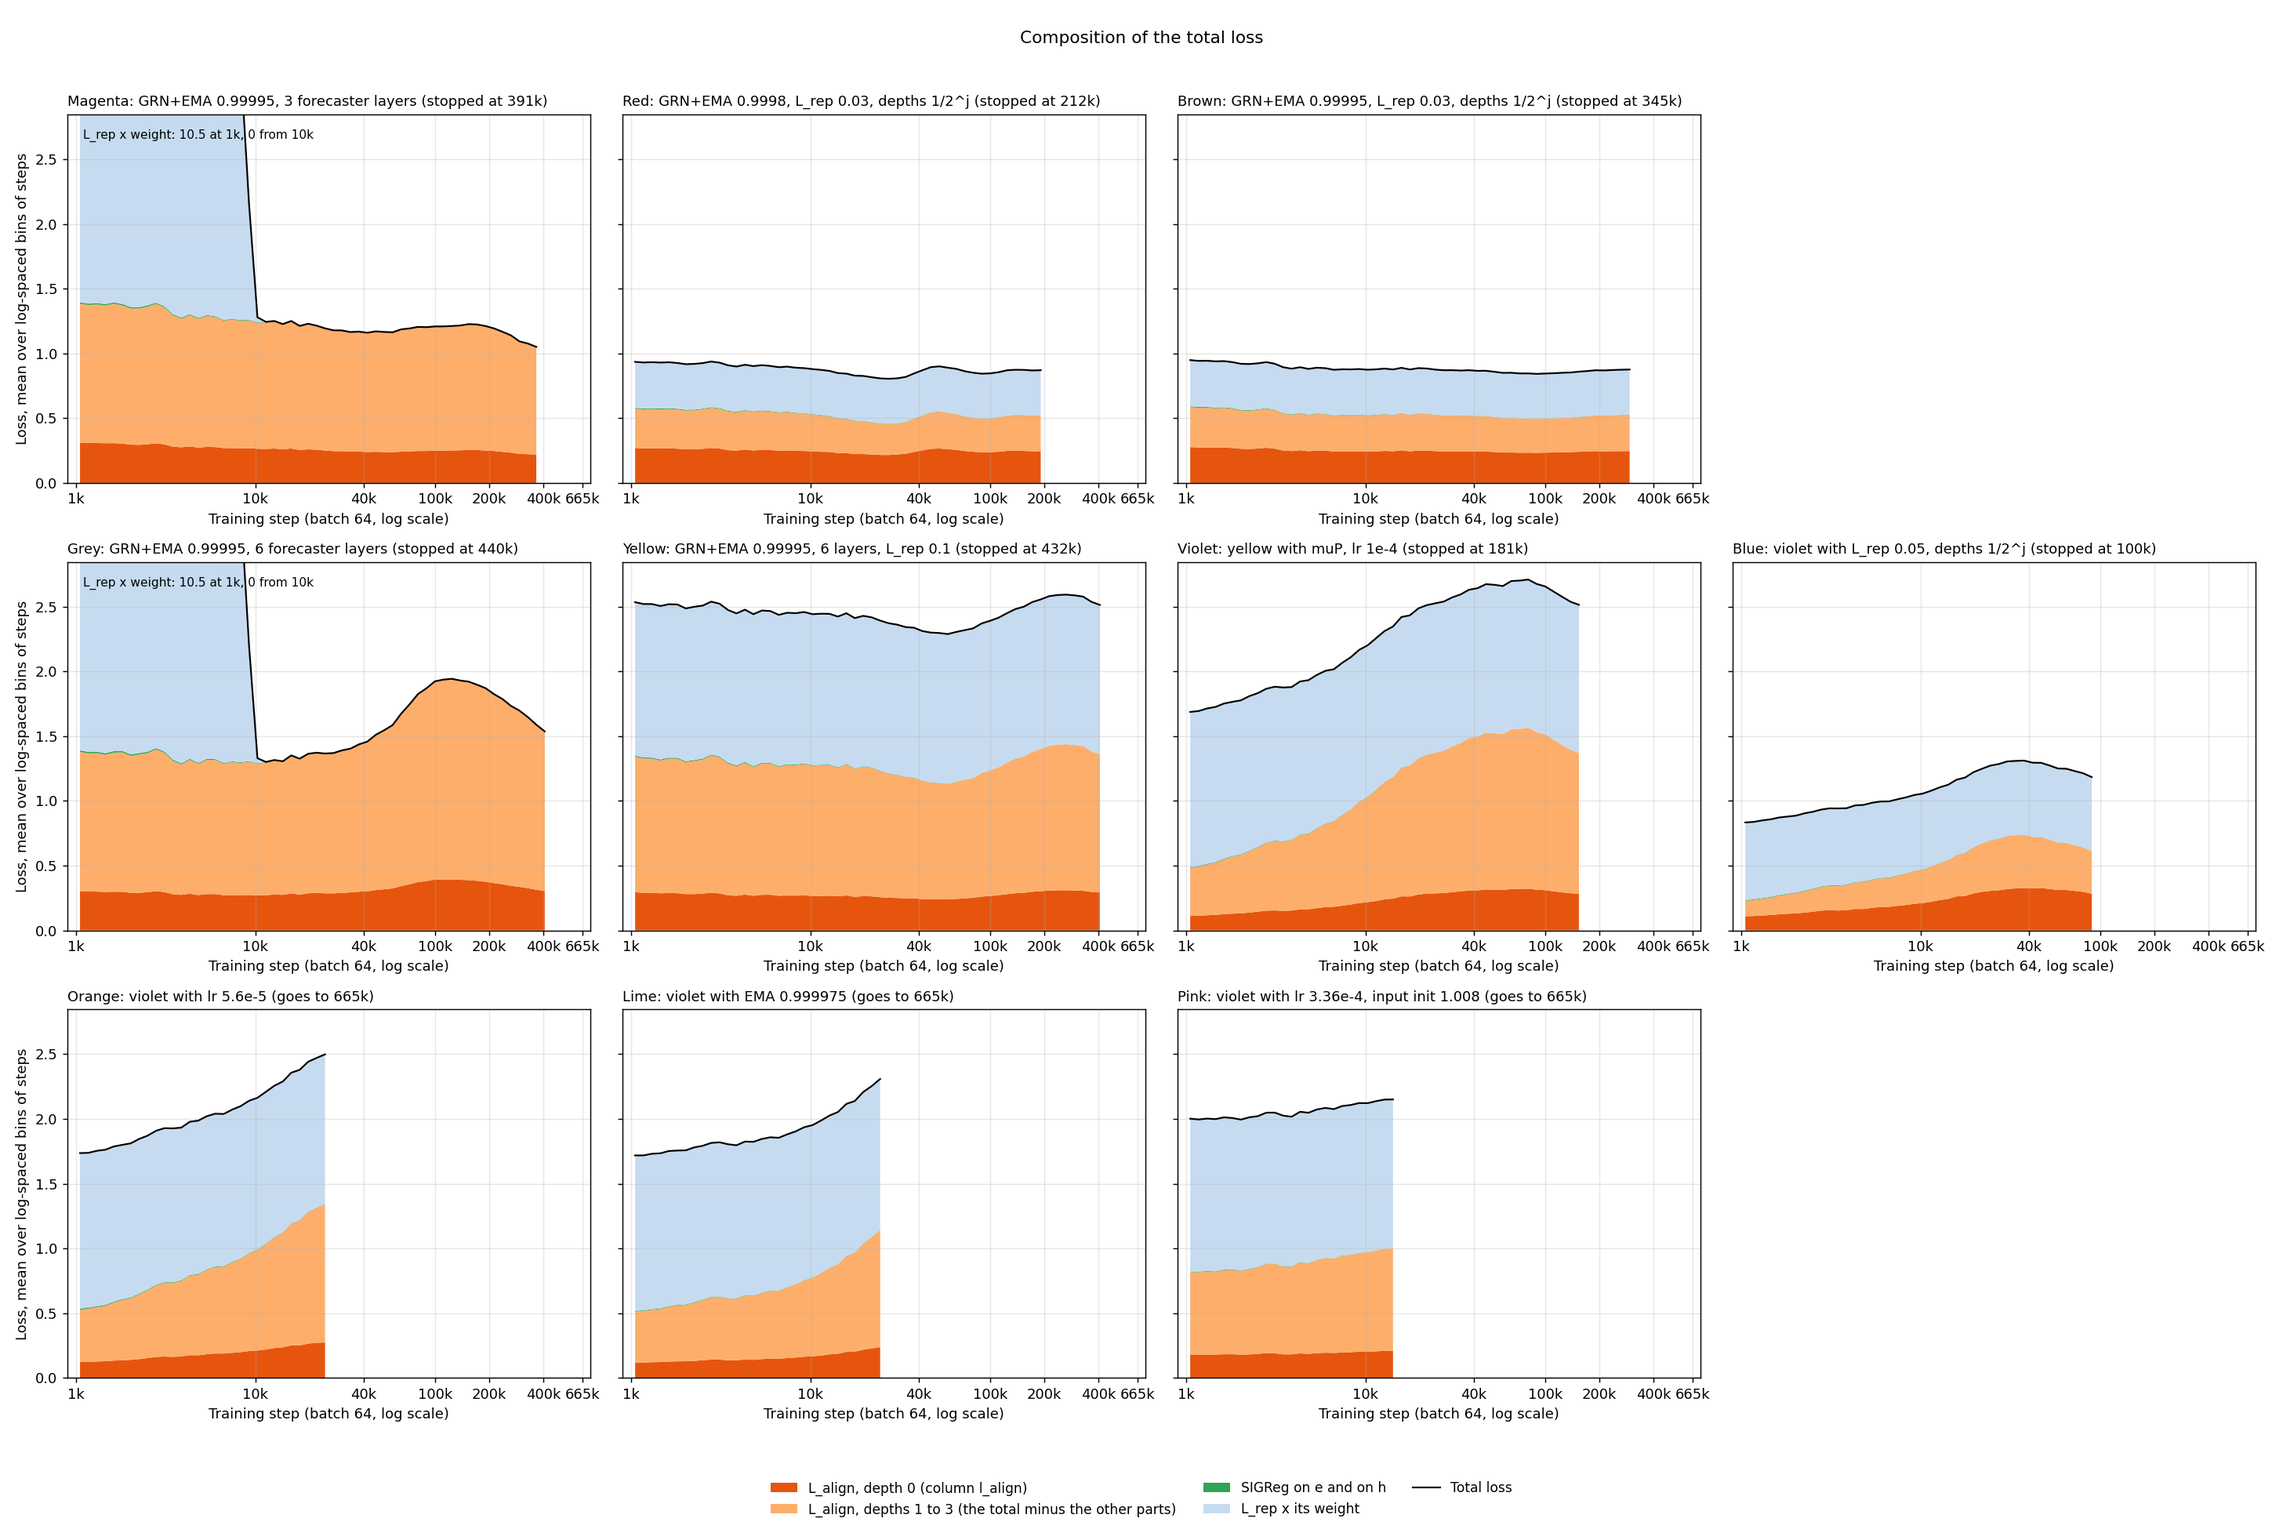
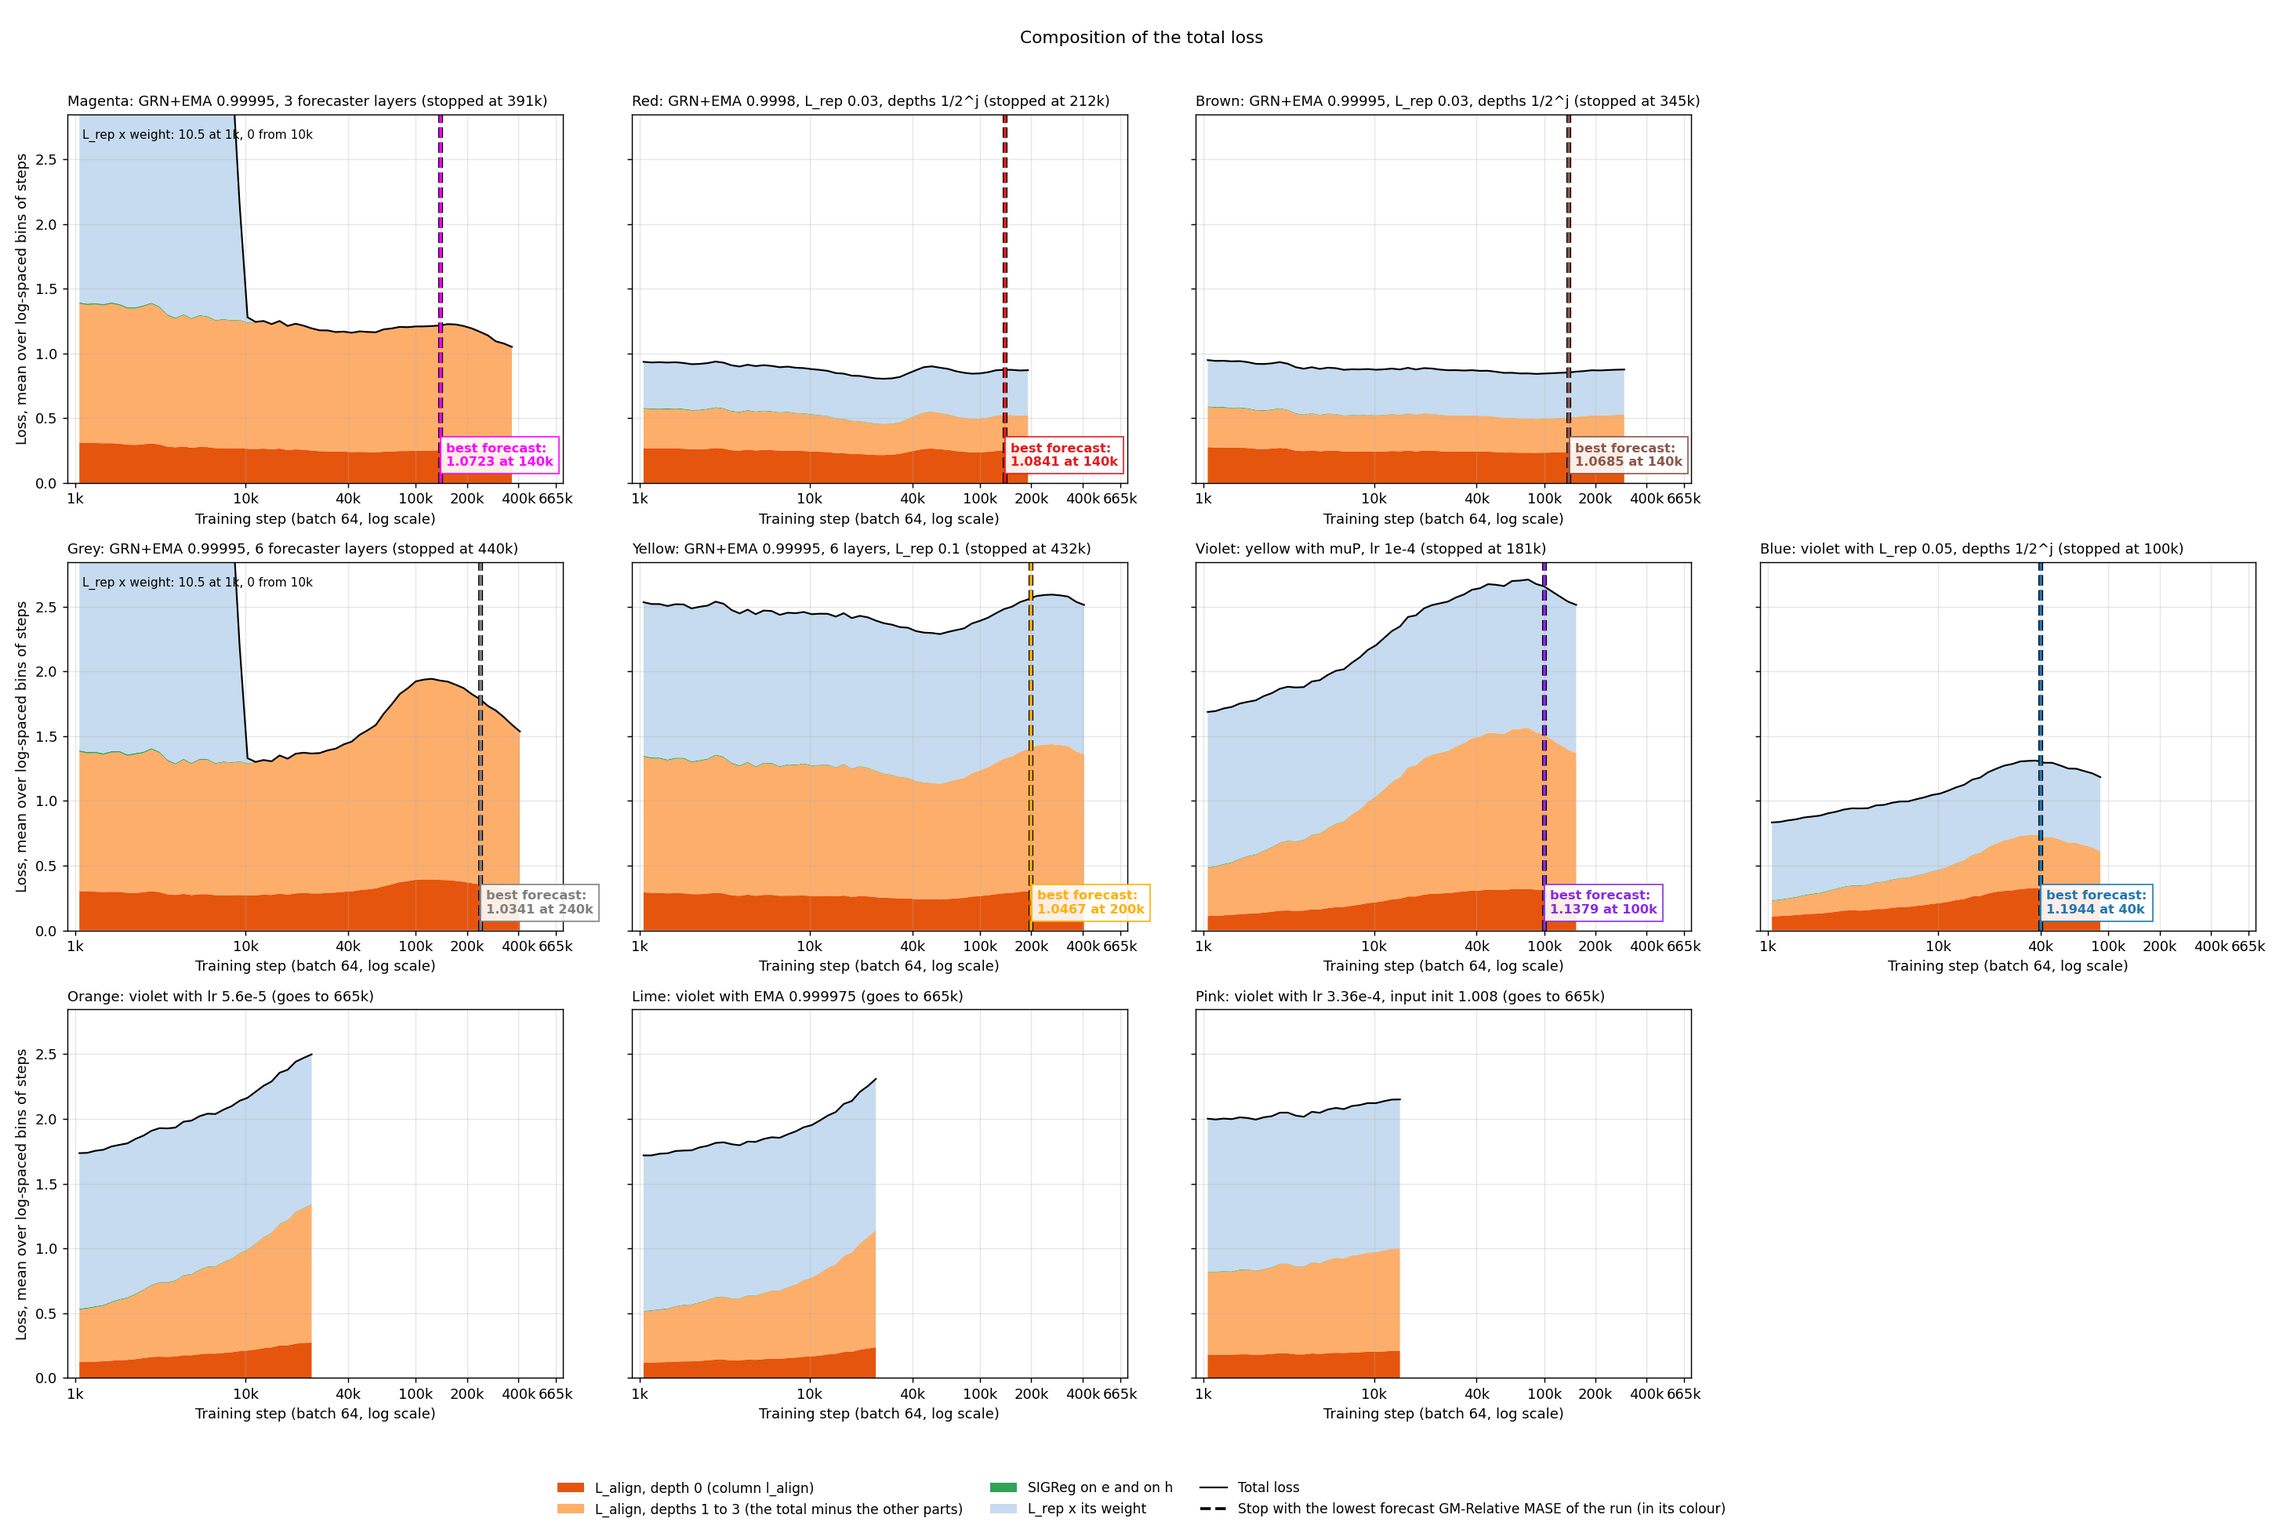
freq_family report: best-forecast lines in the loss figure; score figure without CYN, BLK, GRN and GRN+EMA 0.999
The loss composition marks the stop of each run's lowest forecast GM-Relative
MASE with a dashed line in its colour. The score figure keeps the GRN+EMA runs
of 0.9998 and 0.99995 and MPE (the user's request).

diff --git a/reports/2026-10-10_frequency_family_head/scripts/plot_green_scores.py b/reports/2026-10-10_frequency_family_head/scripts/plot_green_scores.py
@@ -1,12 +1,11 @@
 """The forecast and the reconstruction of the encoder latent through training,
-for the runs of this report (GRN, GRN+EMA 0.999, GRN+EMA 0.9998, GRN+EMA
-0.99995, GRN+EMA 0.99995 with a forecaster of 6 layers, the same with the
-L_rep weight 0.1 at each step, the same with muP, the same with the L_rep
-weight 0.05 and the depth weights 1 / 2^j, GRN+EMA 0.9998 with the
-L_rep weight 0.03 and the depth weights 1 / 2^j) next to CYN and BLK,
-and the forecast of MPE (Moirai, patch heads, EWMA, new data, batch 256: x 4
-for the data seen). Writes plots/forecast_and_reconstruction.png: three panels
-on one x axis.
+for the runs of this report (GRN+EMA 0.9998, GRN+EMA 0.99995, GRN+EMA 0.99995
+with a forecaster of 6 layers, the same with the L_rep weight 0.1 at each
+step, the same with muP, the same with the L_rep weight 0.05 and the depth
+weights 1 / 2^j, GRN+EMA 0.9998 with the L_rep weight 0.03 and the depth
+weights 1 / 2^j, the same with the EMA 0.99995), next to the forecast of MPE
+(Moirai, patch heads, EWMA, new data, batch 256: x 4 for the data seen).
+Writes plots/forecast_and_reconstruction.png: three panels on one x axis.
 
   1. Forecast (B4): the forecaster rolls the latents forward, and the
      standard reconstruction head decodes each rolled latent.
@@ -15,22 +14,18 @@ on one x axis.
 
 A dashed vertical line joins the scores of one checkpoint in the panels.
 
-Reads the scores of CYN and BLK of #412 and #425
+Reads the forecast of MPE of #412 and #425
 (reports/2026-09-06_moirai_small_size/results/gm_trajectories.tsv,
 reports/2026-10-06_encoder_reconstruction/results/*.tsv), and the scores of
-the runs of this report (GRN: arm abc_gift, GRN+EMA 0.999: arm grn_ema0999,
-GRN+EMA 0.9998: arm grn_ema09998, GRN+EMA 0.99995: arm grn_ema099995, with 6
-forecaster layers: arm grn_ema099995_f6, and with the L_rep weight 0.1:
-arm grn_ema099995_f6_rep01, and with muP (the settings of the muP grid, lr
-1e-4): arm grn_ema099995_f6_rep01_mup, GRN+EMA 0.9998 with the L_rep weight
-0.03 and the depth weights 1 / 2^j: arm grn_ema09998_rep003_halving, and the same with the
-EMA 0.99995: arm grn_ema099995_rep003_halving): results/scores.tsv
-(B4, arm `control`), and results/recon_*.tsv (R, with the columns arm, stop in
-thousands of steps, GM-Relative MASE, from collect_recon.py).
-The point at 1k steps of GRN and BLK is a run of the first 1,000 steps
-again, with the flags and the seed of the run: B4 in results/scores.tsv (runs
-abc_gift and blk at stop_k 1), R in results/recon_green*.tsv and
-results/recon_first_steps*.tsv.
+the runs of this report (GRN+EMA 0.9998: arm grn_ema09998, GRN+EMA 0.99995:
+arm grn_ema099995, with 6 forecaster layers: arm grn_ema099995_f6, and with
+the L_rep weight 0.1: arm grn_ema099995_f6_rep01, and with muP (the settings
+of the muP grid, lr 1e-4): arm grn_ema099995_f6_rep01_mup, GRN+EMA 0.9998
+with the L_rep weight 0.03 and the depth weights 1 / 2^j: arm
+grn_ema09998_rep003_halving, and the same with the EMA 0.99995: arm
+grn_ema099995_rep003_halving): results/scores.tsv (B4, arm `control`), and
+results/recon_*.tsv (R, with the columns arm, stop in thousands of steps,
+GM-Relative MASE, from collect_recon.py).
 
 Usage: python3 plot_green_scores.py
 """
@@ -49,13 +44,9 @@ STUDY = Path(__file__).resolve().parent.parent
 MOIRAI = STUDY.parent / "2026-09-06_moirai_small_size"
 RECON = STUDY.parent / "2026-10-06_encoder_reconstruction" / "results"
 sys.path.insert(0, str(MOIRAI / "scripts"))
-from run_style import STYLE, P, colour, line, tagged  # noqa: E402
+from run_style import STYLE, colour, line, tagged  # noqa: E402
 from plot_gm_rates import XSCALE  # noqa: E402  (batch-256 runs: 4)
 
-GREEN = "abc_gift"
-GREEN_COLOUR = "#2ca02c"
-GRN_EMA0999 = "grn_ema0999"
-GRN_EMA0999_COLOUR = "#bcbd22"
 GRN_EMA09998 = "grn_ema09998"
 GRN_EMA09998_COLOUR = "#008080"
 GRN_EMA099995 = "grn_ema099995"
@@ -74,12 +65,10 @@ GRN_EMA09998_REP003_HALVING_COLOUR = "#e41a1c"  # no other run of this figure ha
 GRN_EMA099995_REP003_HALVING = "grn_ema099995_rep003_halving"
 GRN_EMA099995_REP003_HALVING_COLOUR = "#8c564b"  # no other run of this figure has this colour
 # The runs of this report: their forecast comes from results/scores.tsv.
-NEW_RUNS = [GREEN, GRN_EMA0999, GRN_EMA09998, GRN_EMA099995, GRN_EMA099995_F6,
+NEW_RUNS = [GRN_EMA09998, GRN_EMA099995, GRN_EMA099995_F6,
             GRN_EMA099995_F6_REP01, GRN_EMA099995_F6_REP01_MUP,
             GRN_EMA099995_F6_REP005_HALVING_MUP, GRN_EMA09998_REP003_HALVING,
             GRN_EMA099995_REP003_HALVING]
-# Older runs with a forecast at 1k steps in results/scores.tsv: arm -> run.
-FIRST_STEPS = {"cf419_cos200k": "blk"}
 # The newest runs: drawn above the others, so that their first points show.
 ON_TOP = {GRN_EMA09998, GRN_EMA099995, GRN_EMA099995_F6, GRN_EMA099995_F6_REP01,
           GRN_EMA099995_F6_REP01_MUP, GRN_EMA099995_F6_REP005_HALVING_MUP,
@@ -90,13 +79,10 @@ FORECAST_ONLY = {MPE}
 OUT = STUDY / "plots" / "forecast_and_reconstruction.png"
 # (arm, legend label, colour, marker): the runs of the figure.
 RUNS = [
-    (GREEN, r"$\mathbf{GRN}$  lr 5.6e-5, new data", GREEN_COLOUR, "D"),
-    (GRN_EMA0999, r"$\mathbf{GRN+EMA\ 0.999}$  as GRN, EMA of the teacher 0.999 to 1.0 over 665k",
-     GRN_EMA0999_COLOUR, ">"),
-    (GRN_EMA09998, r"$\mathbf{GRN+EMA\ 0.9998}$  as GRN, EMA of the teacher 0.9998 to 1.0 over 665k",
-     GRN_EMA09998_COLOUR, "<"),
-    (GRN_EMA099995, r"$\mathbf{GRN+EMA\ 0.99995}$  as GRN, EMA of the teacher 0.99995 to 1.0 "
-     "over 665k", GRN_EMA099995_COLOUR, "8"),
+    (GRN_EMA09998, r"$\mathbf{GRN+EMA\ 0.9998}$  lr 5.6e-5, new data, EMA of the teacher 0.9998 "
+     "to 1.0 over 665k", GRN_EMA09998_COLOUR, "<"),
+    (GRN_EMA099995, r"$\mathbf{GRN+EMA\ 0.99995}$  lr 5.6e-5, new data, EMA of the teacher "
+     "0.99995 to 1.0 over 665k", GRN_EMA099995_COLOUR, "8"),
     (GRN_EMA099995_F6, r"$\mathbf{GRN+EMA\ 0.99995,\ 6\ forecaster\ layers}$  the forecaster "
      "size of MPE", GRN_EMA099995_F6_COLOUR, "H"),
     (GRN_EMA099995_F6_REP01, r"$\mathbf{GRN+EMA\ 0.99995,\ 6\ layers,\ L\_rep\ 0.1}$  "
@@ -110,18 +96,14 @@ RUNS = [
      "the L_align of depth j at the weight 1 / 2^j", GRN_EMA09998_REP003_HALVING_COLOUR, "X"),
     (GRN_EMA099995_REP003_HALVING, r"$\mathbf{GRN+EMA\ 0.99995,\ L\_rep\ 0.03,\ depths\ 1/2^j}$  "
      "last score 300k, stopped at 345k", GRN_EMA099995_REP003_HALVING_COLOUR, "s"),
-    (P + "_cos200k", tagged(P + "_cos200k", "lr cosine to 1e-6 by 200k, old data"),
-     colour(P + "_cos200k"), "v"),
-    ("cf419_cos200k", tagged("cf419_cos200k", "lr cosine to 1e-6 by 200k, new data"),
-     colour("cf419_cos200k"), "*"),
     (MPE, tagged(MPE, "Moirai, patch heads, EWMA, new data"), colour(MPE), "d"),
 ]
 OURS = STUDY / "results"
-# The R tables of collect_recon.py (first_steps: the 1k point of BLK).
-OUR_R_TABLES = ["green", "grn_ema0999", "grn_ema09998", "grn_ema099995", "grn_ema099995_f6",
+# The R tables of collect_recon.py.
+OUR_R_TABLES = ["grn_ema09998", "grn_ema099995", "grn_ema099995_f6",
                 "grn_ema099995_f6_rep01", "grn_ema099995_f6_rep01_mup",
                 "grn_ema099995_f6_rep005_halving_mup", "grn_ema09998_rep003_halving",
-                "grn_ema099995_rep003_halving", "first_steps"]
+                "grn_ema099995_rep003_halving"]
 # panel title, y range, the score tables, and whether the forecast of the
 # runs of this report comes from results/scores.tsv
 PANELS = [
@@ -149,14 +131,13 @@ def read_table(paths):
     return points
 
 
-def new_run_forecast(run, stops=None):
+def new_run_forecast(run):
     """``{stop k: score}``: the B4 score of the control head of each wave of
-    ``run`` (only the stops in ``stops`` when given)."""
+    ``run``."""
     with open(STUDY / "results" / "scores.tsv") as fh:
         return {int(r["stop_k"]): float(r["gm_rel_mase"])
                 for r in csv.DictReader(fh, delimiter="\t")
-                if r["run"] == run and r["arm"] == "control"
-                and (stops is None or int(r["stop_k"]) in stops)}
+                if r["run"] == run and r["arm"] == "control"}
 
 
 def panel_points(tables, forecast):
@@ -164,8 +145,6 @@ def panel_points(tables, forecast):
     if forecast:
         for run in NEW_RUNS:
             points[run] = new_run_forecast(run)
-        for arm, run in FIRST_STEPS.items():
-            points.setdefault(arm, {}).update(new_run_forecast(run, stops={1}))
     else:
         for arm in FORECAST_ONLY:
             points.pop(arm, None)

diff --git a/reports/2026-10-10_frequency_family_head/scripts/plot_loss_composition_099995.py b/reports/2026-10-10_frequency_family_head/scripts/plot_loss_composition_099995.py
@@ -34,7 +34,9 @@ Each value is the mean over log-spaced bins of steps (BINS bins from 1k to
 results/loss_parts_099995_binned.tsv and plots/loss_composition_099995.png
 (the stacked parts of each run: the runs with 3 forecaster layers in the
 first row, the runs with 6 forecaster layers in the second, and orange, lime
-and pink, also with 6 forecaster layers, in the third).
+and pink, also with 6 forecaster layers, in the third). A dashed line in the
+colour of the run marks the stop with its lowest forecast GM-Relative MASE
+(results/scores.tsv, control head); a run with no forecast score has no line.
 
 Usage: python3 plot_loss_composition_099995.py
 """
@@ -43,13 +45,16 @@ from pathlib import Path
 
 import matplotlib
 matplotlib.use("Agg")
+import matplotlib.patheffects as pe
 import matplotlib.pyplot as plt
 import numpy as np
+from matplotlib.lines import Line2D
 from matplotlib.ticker import FixedLocator, NullLocator
 
 STUDY = Path(__file__).resolve().parent.parent
 RUNS_DIR = Path("/home/jupyter/cf_runs")
 TABLE = STUDY / "results" / "loss_parts_099995_binned.tsv"
+SCORES = STUDY / "results" / "scores.tsv"
 OUT_STACK = STUDY / "plots" / "loss_composition_099995.png"
 FIRST, TOTAL, BINS = 1000, 665_000, 60
 TICKS_K = [1, 10, 40, 100, 200, 400, 665]
@@ -192,9 +197,36 @@ def stack_top(table):
     return max(STACK_TOP_MIN, 1.05 * highest)
 
 
-def draw_stack(ax, run, cols, top):
-    """The stacked parts of one run. A note gives the first L_rep value when
-    it lies above the panel (the weight 1 to 0 over the first 10k)."""
+def best_forecasts():
+    """{run: (stop in k, GM-Relative MASE, number of scored stops)} of the
+    lowest forecast score of each run (control head)."""
+    scores = {}
+    with open(SCORES) as f:
+        for row in csv.DictReader(f, delimiter="\t"):
+            if row["arm"] == "control":
+                scores.setdefault(row["run"], []).append((int(row["stop_k"]),
+                                                          float(row["gm_rel_mase"])))
+    return {run: (*min(rows, key=lambda r: r[1]), len(rows)) for run, rows in scores.items()}
+
+
+def mark_best(ax, run, best):
+    """A dashed line in the colour of the run at the stop of its best forecast."""
+    if run not in best:
+        return
+    stop, score, scored = best[run]
+    colour = RUNS[run][1]
+    ax.axvline(stop * 1000, color=colour, ls="--", lw=2.0,
+               path_effects=[pe.Stroke(linewidth=3.4, foreground="black"), pe.Normal()])
+    what = "best forecast" if scored > 1 else "only forecast score so far"
+    ax.text(stop * 1000 * 1.08, 0.04, f"{what}:\n{score:.4f} at {stop}k",
+            transform=ax.get_xaxis_transform(), color=colour, fontsize=9, fontweight="bold",
+            va="bottom", bbox=dict(facecolor="white", alpha=0.9, edgecolor=colour))
+
+
+def draw_stack(ax, run, cols, top, best):
+    """The stacked parts of one run and the stop of its best forecast. A note
+    gives the first L_rep value when it lies above the panel (the weight 1 to
+    0 over the first 10k)."""
     ax.stackplot(cols["bin_centre_step"], *[cols[p] for p in PARTS],
                  colors=[PART_STYLE[p][0] for p in PARTS],
                  labels=[PART_STYLE[p][1] for p in PARTS])
@@ -205,6 +237,7 @@ def draw_stack(ax, run, cols, top):
         ax.text(1100, top * 0.96, f"L_rep x weight: {cols['rep'][0]:.1f} at 1k, 0 from 10k",
                 fontsize=8.5, va="top")
     log_steps(ax)
+    mark_best(ax, run, best)
 
 
 def plot_stack(table):
@@ -217,12 +250,15 @@ def plot_stack(table):
     for ax in axes.flat:
         ax.set_visible(False)
     top = stack_top(table)
+    best = best_forecasts()
     for run, cols in table.items():
         axes[PANEL[run]].set_visible(True)
-        draw_stack(axes[PANEL[run]], run, cols, top)
+        draw_stack(axes[PANEL[run]], run, cols, top, best)
     for row in axes:
         row[0].set_ylabel("Loss, mean over log-spaced bins of steps")
     handles, labels = axes[0, 0].get_legend_handles_labels()
+    handles.append(Line2D([], [], color="black", ls="--", lw=2.0))
+    labels.append("Stop with the lowest forecast GM-Relative MASE of the run (in its colour)")
     fig.legend(handles, labels, loc="lower center", ncol=3, fontsize=9.5, frameon=False)
     fig.suptitle("Composition of the total loss", fontsize=12)
     fig.tight_layout(rect=(0, 0.06, 1, 0.97))
